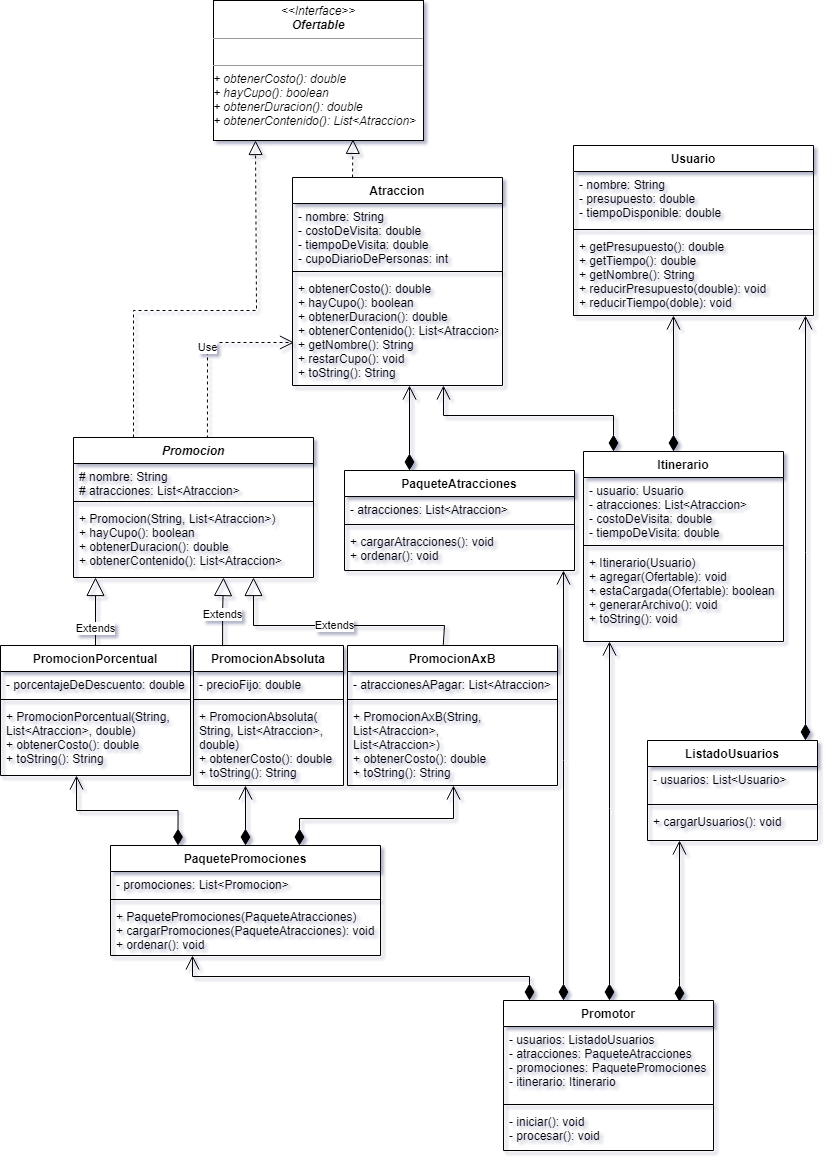
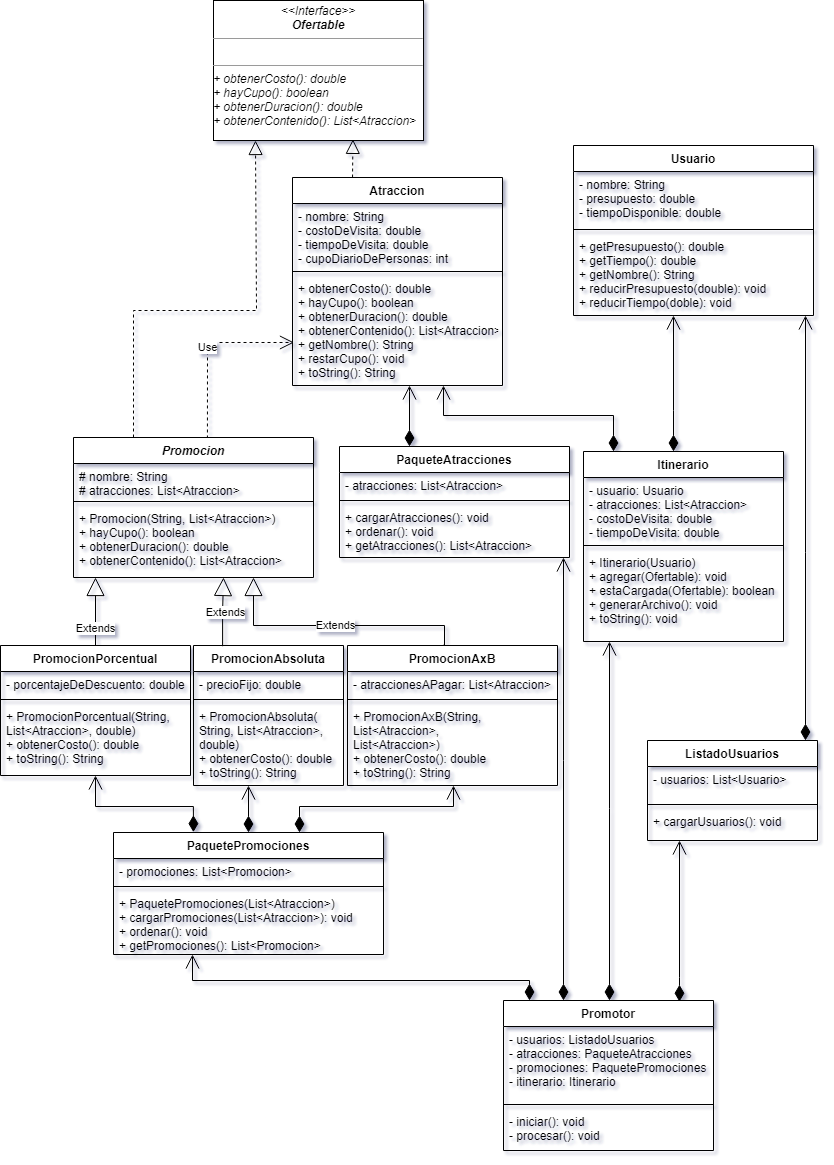
Se agrega ComparadorOfertables y se actualiza diagrama

diff --git a/src/tierramedia/ComparadorOfertables.java b/src/tierramedia/ComparadorOfertables.java
@@ -1,0 +1,16 @@
+package tierramedia;
+
+import java.util.Comparator;
+
+public class ComparadorOfertables implements Comparator<Ofertable>{
+	
+	@Override
+	public int compare(Ofertable oferta1, Ofertable oferta2) {
+		int comparacion = -Double.compare(oferta1.obtenerCosto(), oferta2.obtenerCosto());
+		if (comparacion == 0) {
+			comparacion = -Double.compare(oferta1.obtenerDuracion(), oferta2.obtenerDuracion());
+		}
+		return comparacion;
+	}
+
+}
